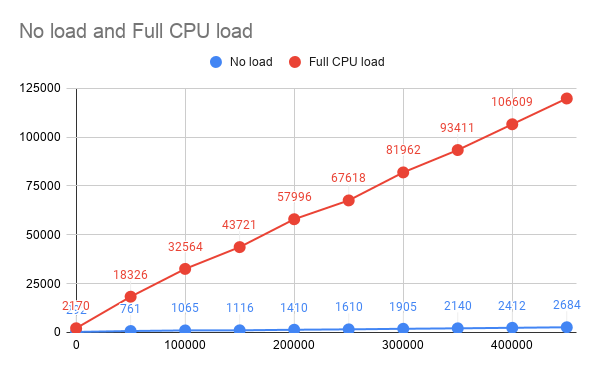
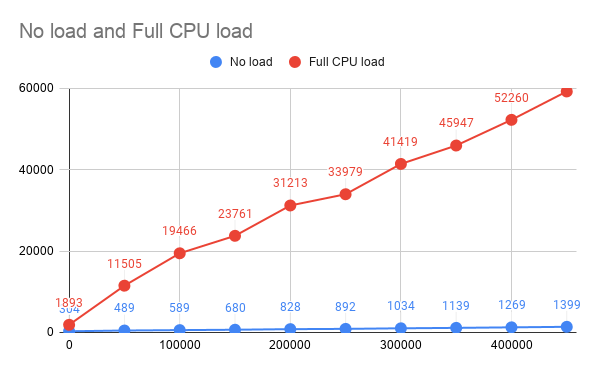
fix random directory generator

diff --git a/proj.cpp b/proj.cpp
@@ -212,7 +212,9 @@ public:
     TpmCpp::QuoteResponse requestDirHashQuote(string path, ByteVec Nonce){
         ByteVec dir_hash = getDirectoryHash(path);
         // cout << dir_hash << endl;
-    	perform_action("Updating PCR with directory hash", 0, dir_hash);
+    	int start_time = chrono::duration_cast<chrono::milliseconds>(chrono::system_clock::now().time_since_epoch()).count();
+        perform_action("Updating PCR with directory hash", 0, dir_hash);
+        total_time_tpm_only += chrono::duration_cast<chrono::milliseconds>(chrono::system_clock::now().time_since_epoch()).count() - start_time;
 
     	// update_pcrs_to_quote({0});
         return tpm.Quote(aik, Nonce, TPMS_NULL_SIG_SCHEME(), pcrsToQuote);
@@ -318,7 +320,10 @@ void generate_files(string path, int size) {
         while (file_size == 0) {
             file_size = rand() % size+1;
         }
-        new_file << Crypto::GetRand(file_size);
+        ByteVec bv = Crypto::GetRand(file_size);
+        vector<char> cv;
+        cv.insert(cv.end(),bv.begin(),bv.end());
+        new_file.write(&cv[0],cv.size());
         size -= file_size;
         //cout << file_size << endl;
         new_file.close();
@@ -379,7 +384,6 @@ int main(int argc, char* argv[])
     total_time_tpm_only = 0;
     int start_time = chrono::duration_cast<chrono::milliseconds>(chrono::system_clock::now().time_since_epoch()).count();
     benchmark();
-
     // cout << "enter directory path" << endl;
     // string x;
     // cin >> x;

diff --git a/README.md b/README.md
@@ -5,12 +5,12 @@
 
 ## Benchmarks
 
-Both of these tests were run while limiting the total cpu usage to 50% in a 12-core cpu using `cpulimit -l 50 -i`.
+Both of these tests were run while limiting the cpu usage to 50% in a 6-core cpu using `cpulimit -l 50 -i`.
 
 ### Change in Time With Size
 ![chart](chart2.png "Time vs Bytes")
 
-Time increases by 1 ms every 5.12 KBs.
+Time increases by 2.3 ms every KB.
 
 ### With and Without Background Tasks
 ![chart](chart1.png "Time vs Bytes")
